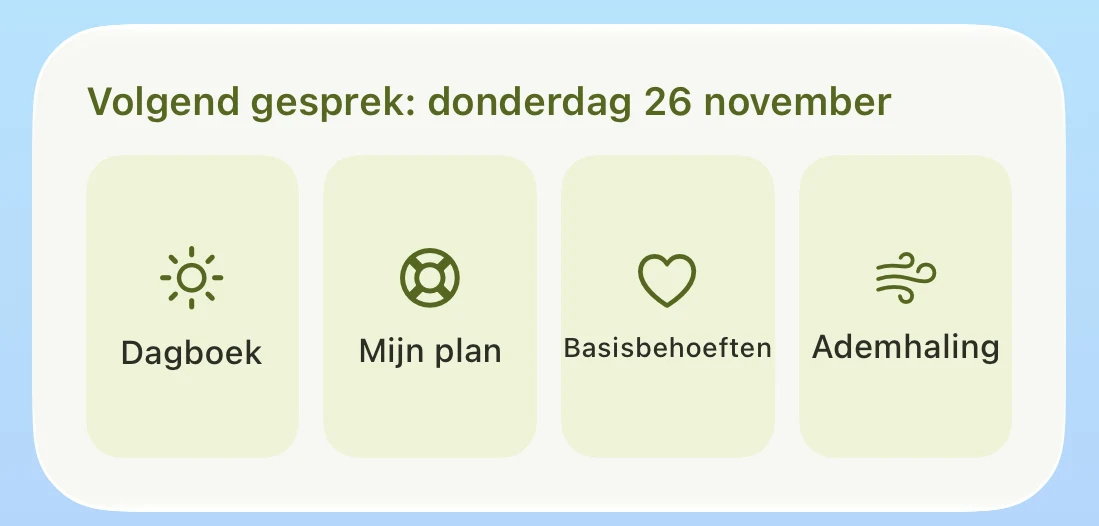
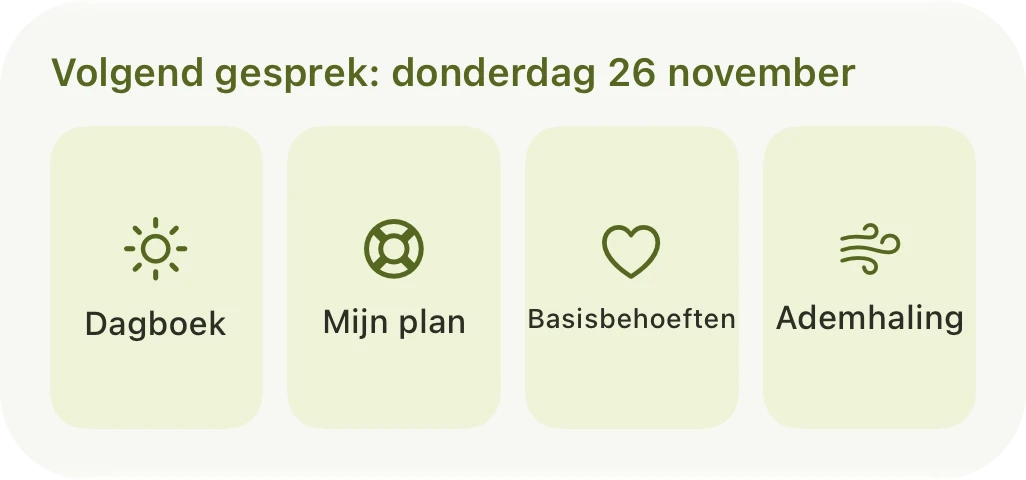
Widget zonder blauwe rand en kleiner op de voorpagina
Claude-Session: https://claude.ai/code/session_01EU7suhxMJGL57CKVjVSrM8

diff --git a/index.html b/index.html
@@ -55,7 +55,7 @@
 
 <section class="kader blok">
 <div class="tekst"><p class="label">Widget</p><h2>Alles binnen één tik</h2><p class="uitleg">Met de widget op je beginscherm zie je wanneer je volgende gesprek is. Met één tik open je een hulpmiddel. Welke dat zijn, kies je zelf.</p></div>
-<figure class="widgetbeeld"><img src="widget.webp" alt="De widget op het beginscherm met het volgende gesprek en vier tegels: Dagboek, Mijn plan, Basisbehoeften en Ademhaling" width="1099" height="526" loading="lazy"></figure>
+<figure class="widgetbeeld"><img src="widget.webp" alt="De widget op het beginscherm met het volgende gesprek en vier tegels: Dagboek, Mijn plan, Basisbehoeften en Ademhaling" width="1026" height="480" loading="lazy"></figure>
 </section>
 
 <section class="kader privacy"><div class="vlak">

diff --git a/stijl.css b/stijl.css
@@ -97,5 +97,5 @@ h2{font-size:clamp(30px,3.8vw,38px);line-height:1.15;font-weight:700;letter-spac
   .rij{gap:32px}
 }
 
-.widgetbeeld{flex:1 1 420px;min-width:0;margin:0}
-.widgetbeeld img{display:block;width:100%;border-radius:28px;border:1px solid var(--lijn)}
+.widgetbeeld{flex:0 1 380px;min-width:240px;margin:0 auto}
+.widgetbeeld img{display:block;width:100%;height:auto;border-radius:8.6%/18.3%;box-shadow:0 0 0 1px var(--lijn),0 14px 36px rgba(43,46,36,.10)}
